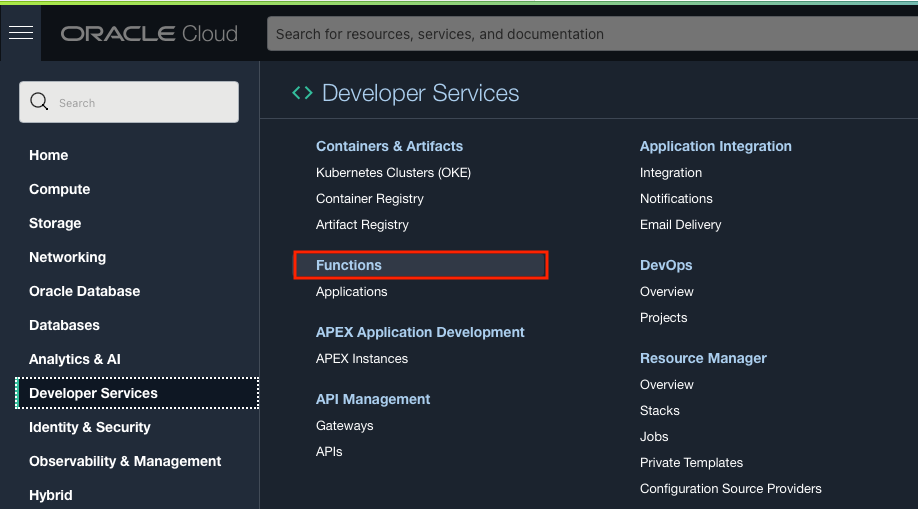
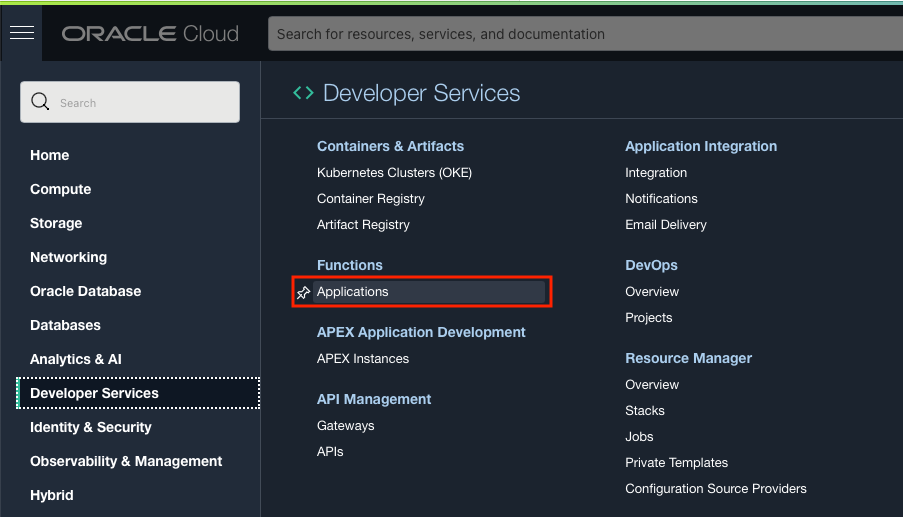
ordsoci1

diff --git a/developer-library/ords-in-oci/csv-function/csv-function.md b/developer-library/ords-in-oci/csv-function/csv-function.md
@@ -126,6 +126,55 @@
 
 ## Create and Deploy the Function
 
+We now need to create a function that will take the incoming file from Object Store and use the Batch Load API of the table we created that leverages the REST services available to us from ORDS. First, we need to make an Application to hold our function. 
+
+With Oracle Functions, an application is:
+    a logical grouping of functions
+    a way to allocate and configure resources for all functions in the application
+    a common context to store configuration variables that are available to all functions in the application
+    a way to ensure function runtime isolation
+
+1. Use the OCI web console drop down menu to go to **Developer Services** and then **Applications**.
+
+    ![Developer Services and then Applications](./images/func-1.png)
+
+2. On the **Applications** page, ensure that the **Compartment** is set to livelabs.
+
+    ![Developer Services and then Applications](./images/func-2.png)
+
+3. Now, click the **Create Application** button.
+
+    ![Developer Services and then Applications](./images/func-3.png)
+
+4. On the **New Application** slide out form, start by setting the **Name** to functionsApp.
+
+    **Name:** functionsApp
+
+    ````
+    <copy>
+    functionsApp
+    </copy>
+    ````
+    ![Functions Name Field](./images/func-4.png)
+
+5. Use the **VNC in livelabs** dropdown to select our FunctionsVCN if not already selected. You can use the **Change Compartment** link if this did not default to using livelabs as the compartment.
+
+    ![VNC in livelabs dropdown](./images/func-5.png)
+
+6. Using the **Subnets in livelabs** dropdown, select **Public Subnet-FunctionsVCN(Regional)**. You can use the **Change Compartment** link if this did not default to using livelabs as the compartment.
+
+    ![subnets in livelabs dropdown](./images/func-6.png)
+
+7. When your **New Application** form looks like the below image
+
+    ![New Application form](./images/func-7.png)
+
+    click the **Create** button in the lower left of the slider.
+
+    ![click the Create button](./images/func-8.png)
+
+8. 
+
 Review the following files in the current folder:
 
     the code of the function, func.py
